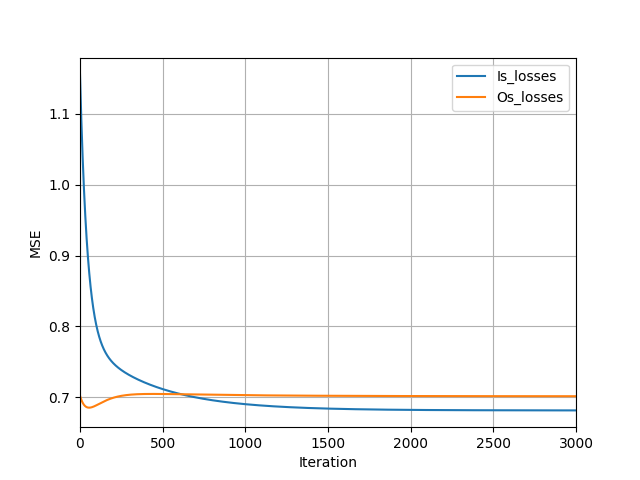
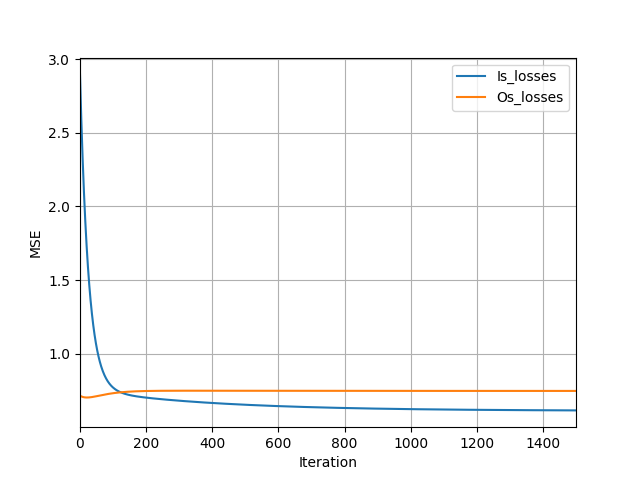
periodic update

diff --git a/RSTrainingExample.py b/RSTrainingExample.py
@@ -145,7 +145,7 @@ def make_and_save_out_of_sample_plots(results_array,figures_path):
 
 if __name__ == "__main__":
     #This script trains several recommendation system from scratch on the movieLens dataset
-    #and allows reproduction of figures and data tables as appearing in the article
+    #and allows reproduction of figures and data tables as appearing in the article.
     import os
     absolute_path = os.path.dirname(os.path.abspath(__file__))
     print(os.chdir(absolute_path)) #Now we are guaranteed to be in the /operatornetworks  dir
@@ -221,11 +221,11 @@ if __name__ == "__main__":
 
     results_array = [] #We will put the results in an array of dicts
 
-    #Example 1: GNN
+    #Example 1: GNN HERE:
     #Next we build our operator network and evaluate it in the operators we have constructed, allowing a slightly higher degree
     M = archit.MonomialWordSupport(num_variables = 1, allowed_support = 6)#we SET SUPPORT
     #operator_tuple = (full_operator_tuple[0],) #The full operator tuple was defined above
-    operator_tuple = (full_operator_tuple[2],) #The full operator tuple was defined above,later diffuses more slowlyso it is harder to beat
+    operator_tuple = (full_operator_tuple[2],) #The full operator tuple was defined above, the latter diffuses more slowly so it is harder to beat
     M.evaluate_at_operator_tuple(operator_tuple = operator_tuple)
     #Using M we now define our operator network
     #With the monomial support we can build the basic layer,
@@ -248,7 +248,7 @@ if __name__ == "__main__":
         num_samples = 2)
 
 
-    nIters = 3000 #we use the same number of iterations for all models
+    nIters = 1500 #we use the same number of iterations for all models
     #Now onto the actual computation...
     result_row = dict([("model_name","GNN_reg_0.0")])
     GNN_filter_layer = archit.OperatorFilterLayer(num_features_in = num_features_in, num_features_out = num_features_out, monomial_word_support = monomial_word_support)
@@ -291,7 +291,7 @@ if __name__ == "__main__":
 
 
     #Example 2: Two operators network
-    #Next we build our operator network and evaluate it in the operators we have constructed, allowing a slightly higher degree
+    #Next we build our operator network and evaluate it in the operators we have constructed,
     M = archit.MonomialWordSupport(num_variables = 2, allowed_support = 2)#we SET SUPPORT
     operator_tuple = (full_operator_tuple[0],full_operator_tuple[2]) #The full operator tuple was defined above
     #operator_tuple = (full_operator_tuple[0],full_operator_tuple[1],full_operator_tuple[2])
@@ -334,70 +334,7 @@ if __name__ == "__main__":
     figures_path = "./paper_figures/"
     make_and_save_individual_plots(results_array,figures_path)
     make_and_save_out_of_sample_plots(results_array,figures_path)
-    pdb.set_trace()
+    #Figures completed...
 
  
-    #We do a quick training loop
-    #We would like to report both in-sample and out-of-sample error
-    epsilon = 0.005 #for the learning rate
-    optimizer = optim.SGD(ONN_filter_layer.parameters(),lr=epsilon)
-
-    ONN_in_sample_loss = []
-    ONN_out_of_sample_loss = []
-
-    counter = 0
-    nIters = 10000
-    while counter < nIters:
-        #We compute the in-sample cost and compute gradients (train) accordingly...
-        ONN_filter_layer.zero_grad()
-        YHat = ONN_filter_layer.forward(X)
-        loss = torch.sum(((YHat*Z)-(Y*Z))**2)/torch.sum(Z)#We measure square error only along the entries with data    
-        cost = loss.item()#TODO: What does .item do exactly?
-        ONN_in_sample_loss.append(cost)
-        loss.backward()
-        optimizer.step()
-        counter+=1
-
-        #We compute the out of sample cost...
-        YHatTest = ONN_filter_layer.forward(Xtest)
-        out_of_sample_cost = torch.sum(((YHatTest*Ztest)-(Ytest*Ztest))**2)/torch.sum(Ztest)
-        oso_cost = out_of_sample_cost.item()
-        ONN_out_of_sample_loss.append(oso_cost)
-
-        if counter%5 == 0:
-            print(f"Step {counter} Current Loss: {cost}" )
-            print(f"Step {counter} Out of sample loss: {out_of_sample_cost}")
-            print("\n")
-
-    print(f"BEST out_of_sample_loss {np.min(ONN_out_of_sample_loss)}" )
-    print("\n")
-
-
-
-    #Once we finish training we produce the resulting figures
-    Y2 = YHat.detach()
-    ax = sns.heatmap(Y2[:,0,:], cmap="coolwarm", linewidth=0.3)
-    figure_name = "GNN_forecast_deg_2.png"
-    plt.savefig(figures_path+figure_name)
-    plt.clf()
-
-    #Next we create figures illustrating the in-sample and out-of-sample error behavior
-    Xs = range(nIters)
-    CF_loss = [closs for k in range(nIters)] 
-    min_ONN_out_of_sample_loss = [np.min(ONN_out_of_sample_loss) for k in range(nIters)]
-    fig, ax = plt.subplots()
-    ax.set(xlabel='Var independiente', ylabel='Var dependiente')
-    ax.grid()
-    ax.axis(xmin = 0,xmax = nIters)
-    ax.plot(Xs,CF_loss, label="CF_loss") #Hace la grafica, poniendo puntos en las parebas correspondientes 
-    ax.plot(Xs,ONN_in_sample_loss, label="GNN_loss_i") #Hace la grafica, poniendo puntos en las parebas correspondientes 
-    ax.plot(Xs,ONN_out_of_sample_loss, label="GNN_loss_o") #Hace la grafica, poniendo puntos en las parebas correspondientes 
-    ax.plot(Xs,min_ONN_out_of_sample_loss, label="min_loss_o") #Hace la grafica, poniendo puntos en las parebas correspondientes 
-    figure_name = "dynamic_loss_operator_NN_plot"
-    fig.savefig(figures_path+figure_name) #Graba un archivo con la imagen
-    fig.show()
-    fig.clf()
-
-
-
-
+  
